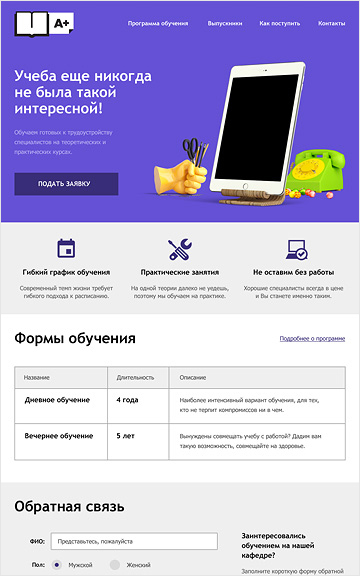
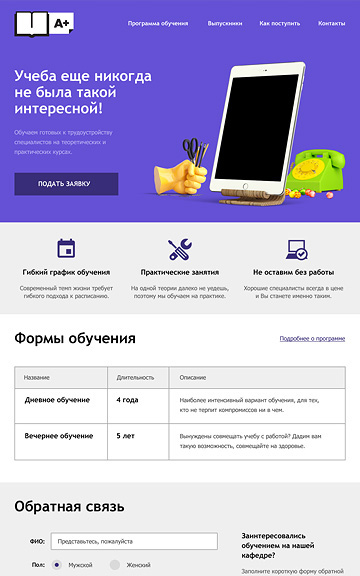
Критерии

Changed region(s): [[0.9778, 0.0, 1.0, 0.375], [0.9778, 0.5625, 1.0, 0.8125], [0.0, 0.0, 0.0306, 0.0312]]

diff --git a/css/style.css b/css/style.css
@@ -20,7 +20,7 @@ body {
   cursor: pointer;
 }
 .logo-top img:hover {
-  background-image: url("../img/nerds-logo hvr.png");
+  opacity: 0.8;
 }
 .logo-top:active {
   opacity: 0.3;
@@ -45,8 +45,9 @@ body {
   vertical-align: top;
   font-size: 16px;
   margin-right: 45px;
+  margin-bottom: 10px;
 }
-.main-navigation li:last-child {
+.main-navigation li:nth-child(4n) {
   margin-right: 0;
 }
 .main-navigation a {
@@ -167,6 +168,7 @@ body {
 }
 .contacts-btn {
   display: inline-block;
+  vertical-align: top;
   margin-top: 18px;
   text-transform: uppercase;
   text-align: center;
@@ -209,6 +211,7 @@ body {
   height: 79px;
   border-radius: 50%;
   margin-right: 50px;
+  margin-bottom: 10px;
 }
 .social-btn:hover {
   position: relative;
@@ -303,7 +306,6 @@ body {
   margin: 0;
   padding: 0;
 }
-
 /* Главная */
 .slider{
   position:relative;
@@ -314,7 +316,7 @@ body {
   position: absolute;
   opacity: 0;
 }
-.slider-controls{
+.slider-controls {
   position: absolute;
   width: 200px;
   bottom: 98px;
@@ -324,8 +326,9 @@ body {
   text-align: center;
   z-index: 1000;
 }
-.slider-controls label{
+.slider-controls label {
   display: inline-block;
+  vertical-align: bottom;
   width: 18px;
   height: 18px;
   margin: 0 6px;
@@ -614,7 +617,7 @@ body {
 }
 .numbers li {
   display: inline-block;
-  vertical-align: middle;
+  vertical-align: top;
   font-size: 14px;
   line-height: 18px;
   width: 100px;
@@ -689,18 +692,10 @@ sup {
 .client img {
   display: inline-block;
   vertical-align: middle;
+  opacity: 0.2;
 }
-.client-1 img:hover {
-  background: url("../img/logo-1.png hvr.png");
-}
-.client-2 img:hover {
-  background: url("../img/logo-2.png hvr.png");
-}
-.client-3 img:hover {
-  background: url("../img/logo-3.png hvr.png");
-}
-.client-4 img:hover {
-  background: url("../img/logo-4.png hvr.png");
+.client img:hover {
+  opacity: 1;
 }
 .client:active {
   opacity: 0.1;
@@ -713,8 +708,8 @@ sup {
   text-align: center;
   margin: 0;
   padding-top: 68px;
-  padding-bottom: 112px;
-  margin-bottom: 53px;
+  padding-bottom: 110px;
+  margin-bottom: 54px;
 }
 /* Боковое меню */
 .filters {
@@ -785,6 +780,7 @@ sup {
   font-size: 16px;
   text-transform: uppercase;
   display: inline-block;
+  vertical-align: bottom;
   width: 50%;
 }
 .max-price {
@@ -999,7 +995,7 @@ sup {
   font-weight: bold;
   margin: 0;
   padding: 0;
-  margin-right: 260px;
+  margin-right: 259px;
   margin-left: 6px;
   margin-bottom: 54px;
 }
@@ -1093,7 +1089,7 @@ sup {
   background-color: #e9e9e9;
   height: 41px;
   width: 360px;
-  border-radius: 3px;
+  border-radius: 3px 3px 0 0;
 }
 .catalog-item:hover {
   box-shadow: 0 3px 8px 1px #999999;
@@ -1102,7 +1098,7 @@ sup {
   background-color: #4d4d4d;
   height: 41px;
   width: 360px;
-  border-radius: 3px;
+  border-radius: 3px 3px 0 0;
 }
 .catalog-item:hover .item-content {
   display: block;
@@ -1154,7 +1150,6 @@ sup {
 }
 .catalog-item img {
   display: block;
-  border-radius: 3px;
 }
 .catalog-item:nth-child(odd) {
   margin-right: 40px;
@@ -1299,6 +1294,7 @@ sup {
   position: relative;
 }
 .feedback-title {
+  color: black;
   text-align: left;
   margin: 0;
   padding: 0;
@@ -1319,7 +1315,7 @@ sup {
   background-color: white;
 }
 .close-btn::before {
-  position: absolute;
+  display: block;
   content:"";
   width: 21px;
   height: 21px;
@@ -1328,9 +1324,9 @@ sup {
   opacity: 0.3;
 }
 .close-btn:hover::before {
-  position: absolute;
   content: "";
   opacity: 1;
+  display: block;
 }
 .close-btn:active {
   opacity: 0.3;
@@ -1363,24 +1359,16 @@ sup {
   margin-bottom: 35px;
   padding-left: 20px;
 }
-.feedback-error {
-  animation: shake 0.6s;
-}
-input .feedback-error {
-  width: 340px;
-  height: 50px;
-  border: 2px solid #e74246;
-  border-radius: 3px;
-  margin-top: 12px;
-  margin-bottom: 35px;
-  padding-left: 20px;
+.error {
   color: #e74246;
+  animation: shake 0.6s;
 }
 .feedback input:hover[type="text"] {
   border: 2px solid #b4b9bb;
 }
 .feedback label {
   width: 110px;
+  color: black;
 }
 .feedback textarea {
   width: 760px;

diff --git a/catalog.html b/catalog.html
@@ -3,9 +3,9 @@
 	<head>
 		<meta charset="utf-8">
 		<title>Магазин готовых шаблонов</title>
+		<link href="https://fonts.googleapis.com/css?family=Roboto:400,500,700&amp;subset=cyrillic-ext" rel="stylesheet">
 		<link href="css/normalize.css" rel="stylesheet">
 		<link href="css/style.css" rel="stylesheet">
-		<link href="https://fonts.googleapis.com/css?family=Roboto:400,500,700&amp;subset=cyrillic" rel="stylesheet">
 	</head>
 	<body>
 		<header class="main-header">
@@ -135,8 +135,8 @@
 						</div>
 						<div class="item-content">
 							<a href="#" class="item-title">Pink App</a>
-								<p class="item-description">Продуктовый лендинг приложения для iOS и Android</p>
-								<a class="btn">9 900р.</a>
+							<p class="item-description">Продуктовый лендинг приложения для iOS и Android</p>
+							<a class="btn">9 900р.</a>
 						</div>
 					</section>
 					<section class="catalog-item">
@@ -148,8 +148,8 @@
 						</div>
 						<div class="item-content">
 							<a href="#" class="item-title">Barbershop</a>
-								<p class="item-description-small">Сайт салона красоты. Для мужчин, да.</p>
-								<a class="btn">9 900р.</a>
+							<p class="item-description-small">Сайт салона красоты. Для мужчин, да.</p>
+							<a class="btn">9 900р.</a>
 						</div>
 					</section>
 					<section class="catalog-item">
@@ -161,8 +161,8 @@
 						</div>
 						<div class="item-content">
 							<a href="#" class="item-title">Mishka</a>
-								<p class="item-description-small">Интернет-магазин вязаных игрушек</p>
-								<a class="btn">9 900р.</a>
+							<p class="item-description-small">Интернет-магазин вязаных игрушек</p>
+							<a class="btn">9 900р.</a>
 						</div>
 					</section>
 					<section class="catalog-item">
@@ -174,8 +174,8 @@
 						</div>
 						<div class="item-content">
 							<a href="#" class="item-title">A plus</a>
-								<p class="item-description">Лендинг курсов повышения квалификации</p>
-								<a class="btn">9 900р.</a>
+							<p class="item-description">Лендинг курсов повышения квалификации</p>
+							<a class="btn">9 900р.</a>
 						</div>
 					</section>
 					<section class="catalog-item">
@@ -187,8 +187,8 @@
 						</div>
 						<div class="item-content">
 							<a href="#" class="item-title">Кваст</a>
-								<p class="item-description">Промо-сайт производителя крафтового кваса</p>
-								<a class="btn">9 900р.</a>
+							<p class="item-description">Промо-сайт производителя крафтового кваса</p>
+							<a class="btn">9 900р.</a>
 						</div>
 					</section>
 				</div>
@@ -233,8 +233,8 @@
 					</div>
 				</div>
 		</footer>
-		<div class="feedback clearfix">
-			<div class="feedback-top">
+		<div class="feedback">
+			<div class="feedback-top clearfix">
 				<h2 class="feedback-title">Напишите нам</h2>
 				<button type="button" class="close-btn"></button>
 			</div>

diff --git a/index.html b/index.html
@@ -3,9 +3,9 @@
 	<head>
 		<meta charset="utf-8">
 		<title>HTML Academy: Нёрдс</title>
+		<link href="https://fonts.googleapis.com/css?family=Roboto:400,500,700&amp;subset=cyrillic-ext" rel="stylesheet">
 		<link href="css/normalize.css" rel="stylesheet">
 		<link href="css/style.css" rel="stylesheet">
-		<link href="https://fonts.googleapis.com/css?family=Roboto:400,500,700&amp;subset=cyrillic-ext" rel="stylesheet">
 	</head>
 	<body>
 		<header class="main-header">
@@ -164,8 +164,8 @@
 					</div>
 				</div>
 		</footer>
-		<div class="feedback clearfix">
-			<div class="feedback-top">
+		<div class="feedback">
+			<div class="feedback-top clearfix">
 				<h2 class="feedback-title">Напишите нам</h2>
 				<button type="button" class="close-btn"></button>
 			</div>

diff --git a/js/script.js b/js/script.js
@@ -22,13 +22,17 @@ link.addEventListener("click", function(event) {
 close.addEventListener("click", function(event) {
   event.preventDefault();
   popup.classList.remove("feedback-show");
-  popup.classList.remove("feedback-error");
+  popup.classList.remove("error");
 });
 
 form.addEventListener("submit", function(event) {
+  fullname.classList.remove("error");
+  email.classList.remove("error");
   if(!fullname.value || !email.value) {
     event.preventDefault();
-    popup.classList.add("feedback-error");
+    popup.classList.add("error");
+    if(!fullname.value) fullname.classList.add("error");
+    if(!email.value) email.classList.add("error");
   } else {
     localStorage.setItem("fullname", fullname.value);
   }
